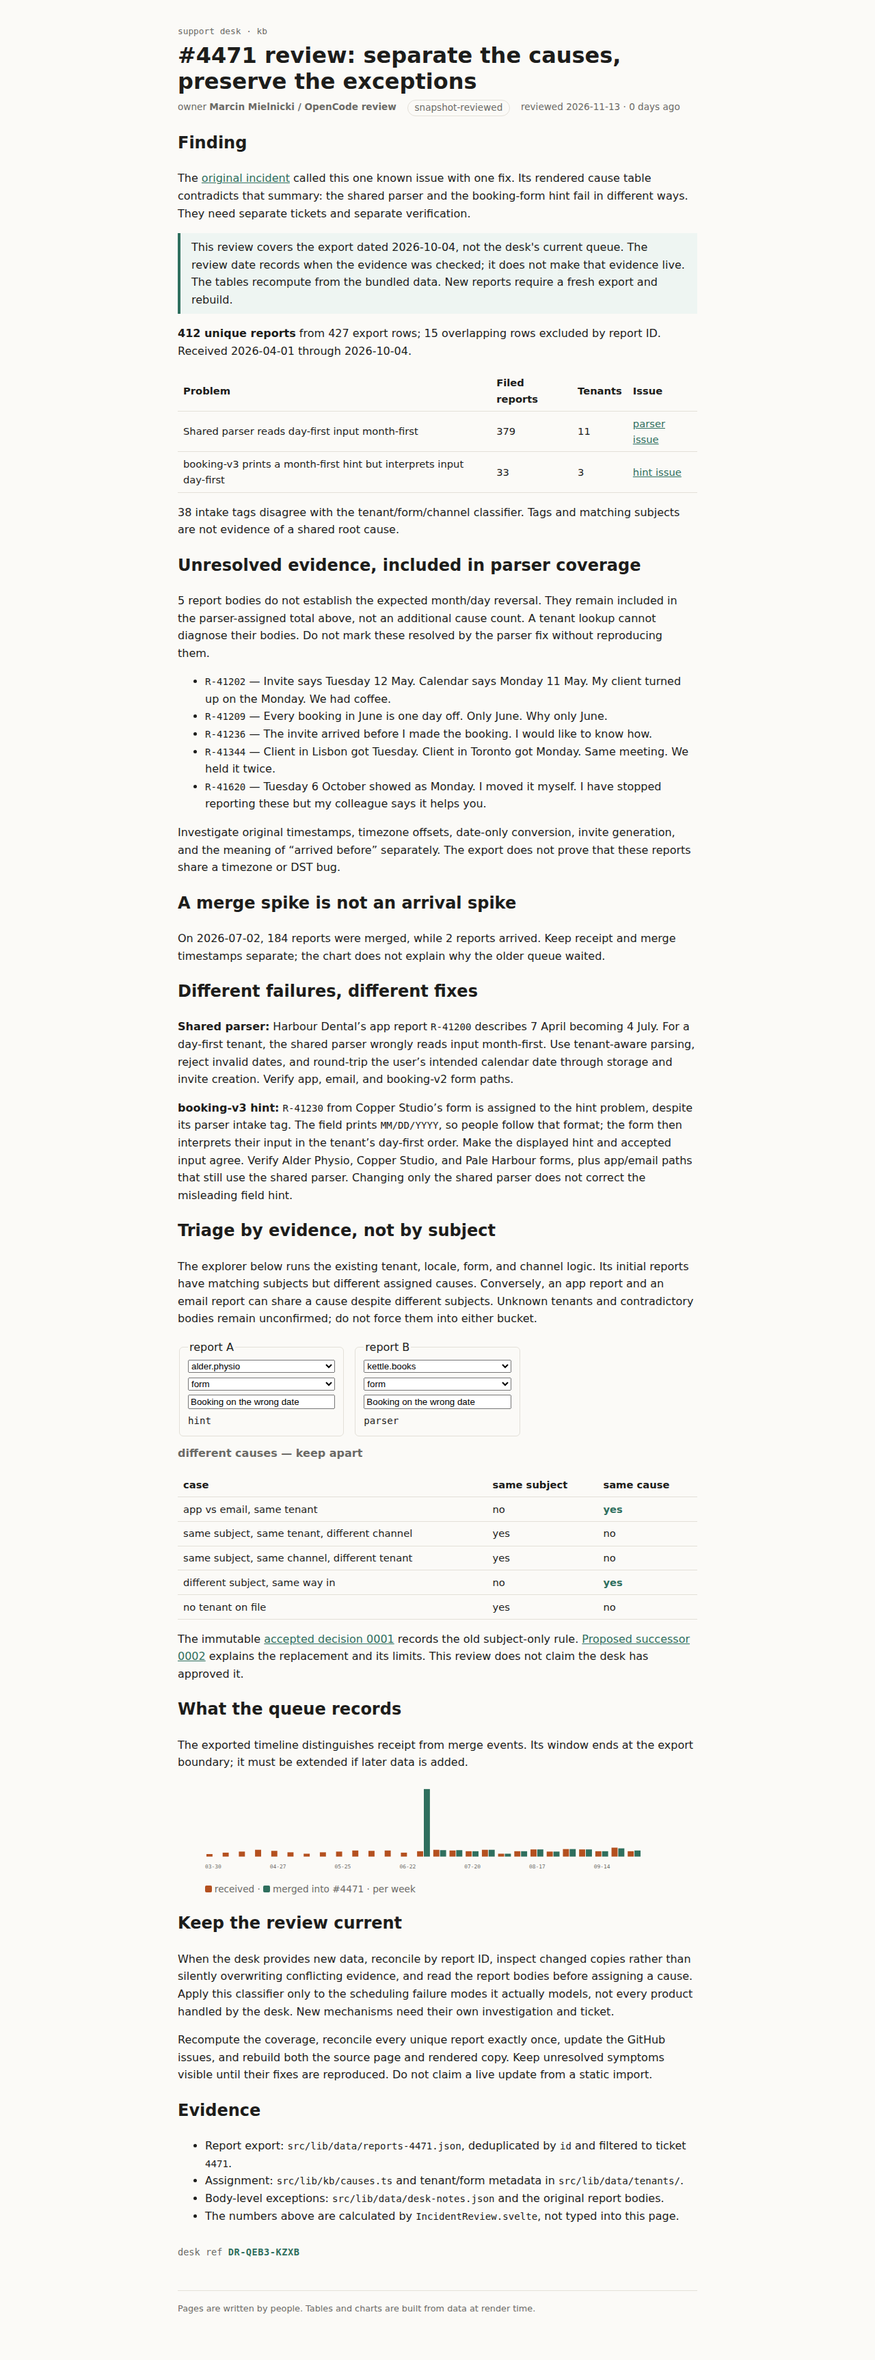
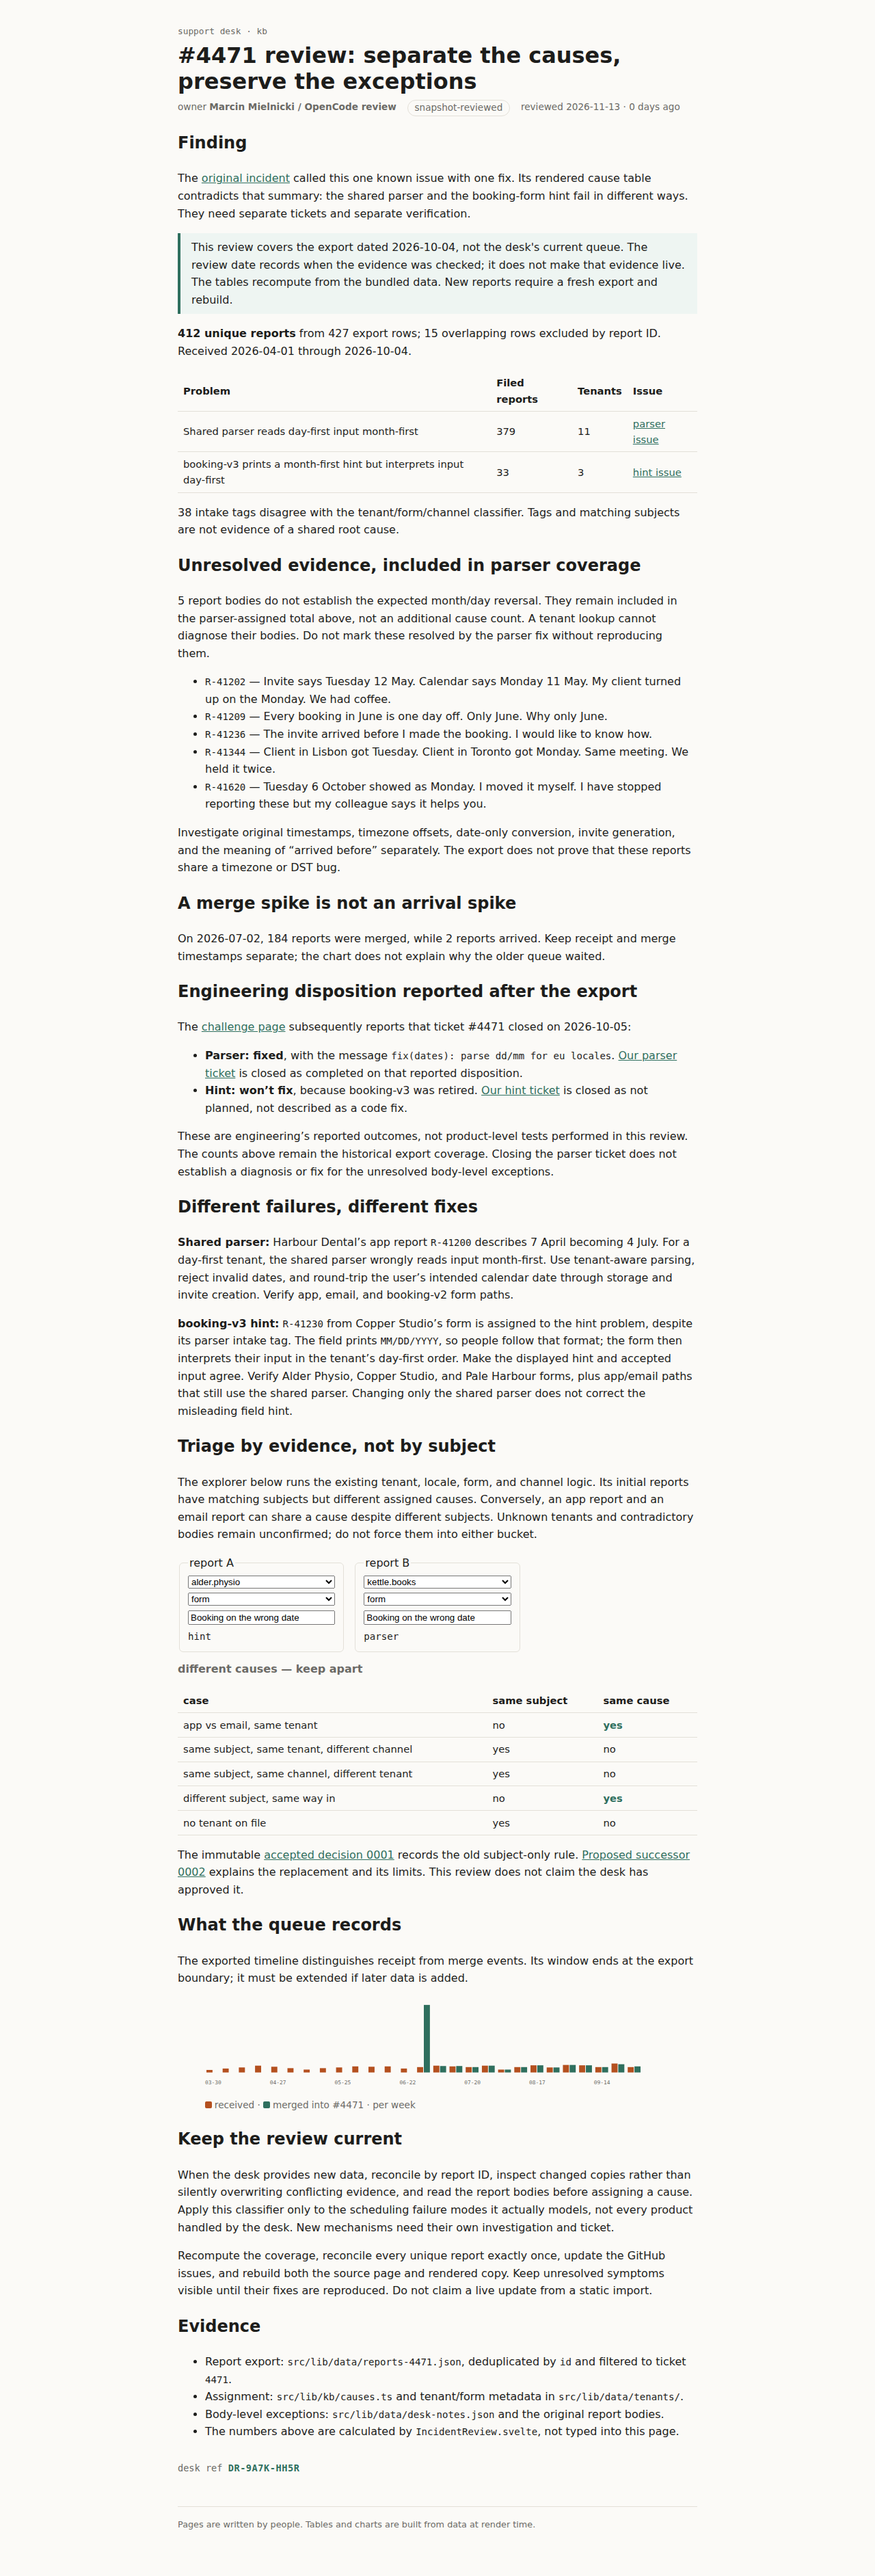
Record course acceptance and refresh final browser evidence

Changed region(s): [[0.1875, 0.0, 0.7812, 0.9609]]

diff --git a/evidence/browser-check.md b/evidence/browser-check.md
@@ -1,6 +1,6 @@
 # Browser verification
 
-Checked locally with Playwright on 2026-11-13. This is a preview of the exported snapshot, not a live-desk check or course acceptance.
+Checked locally with Playwright on 2026-11-13. Browser checks cover the exported snapshot and the separately attributed engineering update; they are not independent production-fix tests. The course subsequently accepted the challenge on the same date.
 
 - Actual MDsveX/Svelte render of the original incident: 412 reports, parser 379, hint 33, plus the five-report exception footnote.
 - Actual render of `/kb/incidents/4471-review`: 412 unique reports from 427 rows, 15 duplicate rows excluded, parser 379, hint 33, 38 intake-tag disagreements.
@@ -12,4 +12,4 @@ Checked locally with Playwright on 2026-11-13. This is a preview of the exported
 - The original incident's sole console error was a missing favicon; no component-runtime errors were observed on the review page.
[1 lines of base64/hex data omitted]
 
-`4471-review.png` is a full-page desktop capture regenerated after GitHub issues #1 and #2 were published. Both issue links and the source-derived desk stamp were checked again in the rendered page. Course acceptance is a separate check.
+`4471-review.png` is a full-page desktop capture regenerated after course acceptance. It includes GitHub issues #1 and #2, the engineering disposition, and the course-issued signature's rendered stamp. Both issue links and the source-derived stamp were checked again in the rendered page.

diff --git a/README.md b/README.md
@@ -2,6 +2,8 @@
 
 ## S01E03 review deliverables
 
+The course accepted this challenge on 2026-11-13. [Saved debrief](https://hq.mega.dev/challenges/what-it-shows#debrief).
+
 - [Parser issue: 379 assigned reports, including five unresolved body exceptions](https://github.com/3750/mega-s01e03-what-it-shows/issues/1).
 - [booking-v3 hint issue: 33 assigned reports](https://github.com/3750/mega-s01e03-what-it-shows/issues/2).
 - [Signed review source](src/routes/kb/incidents/4471-review/+page.svx).
